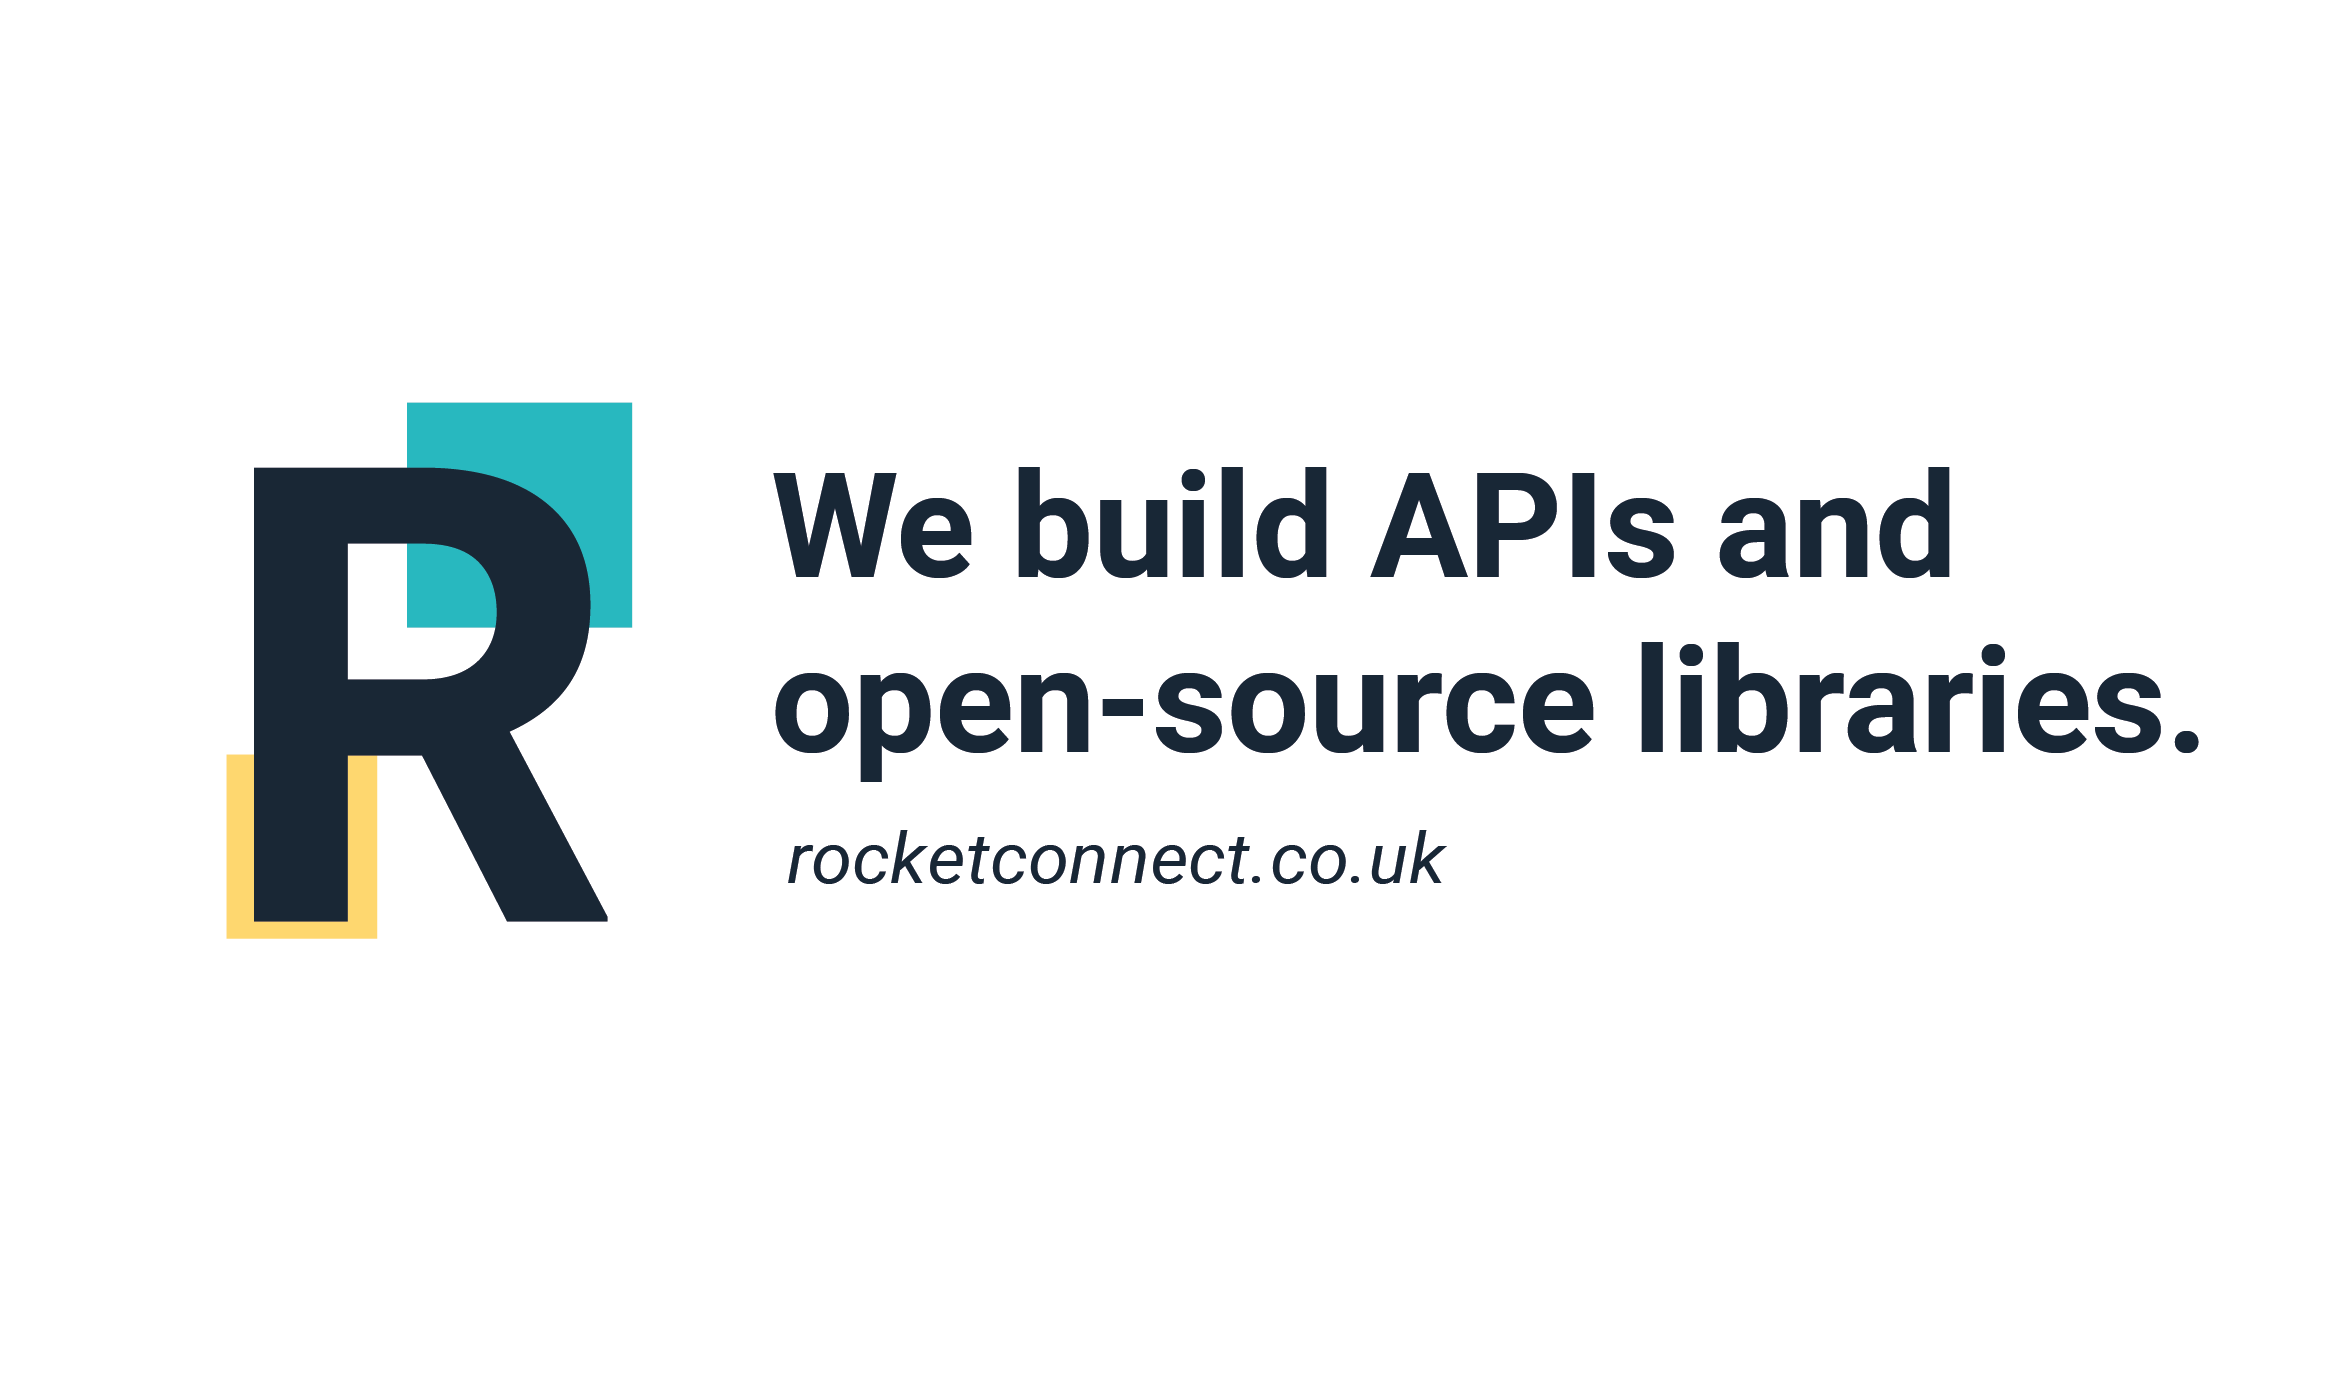
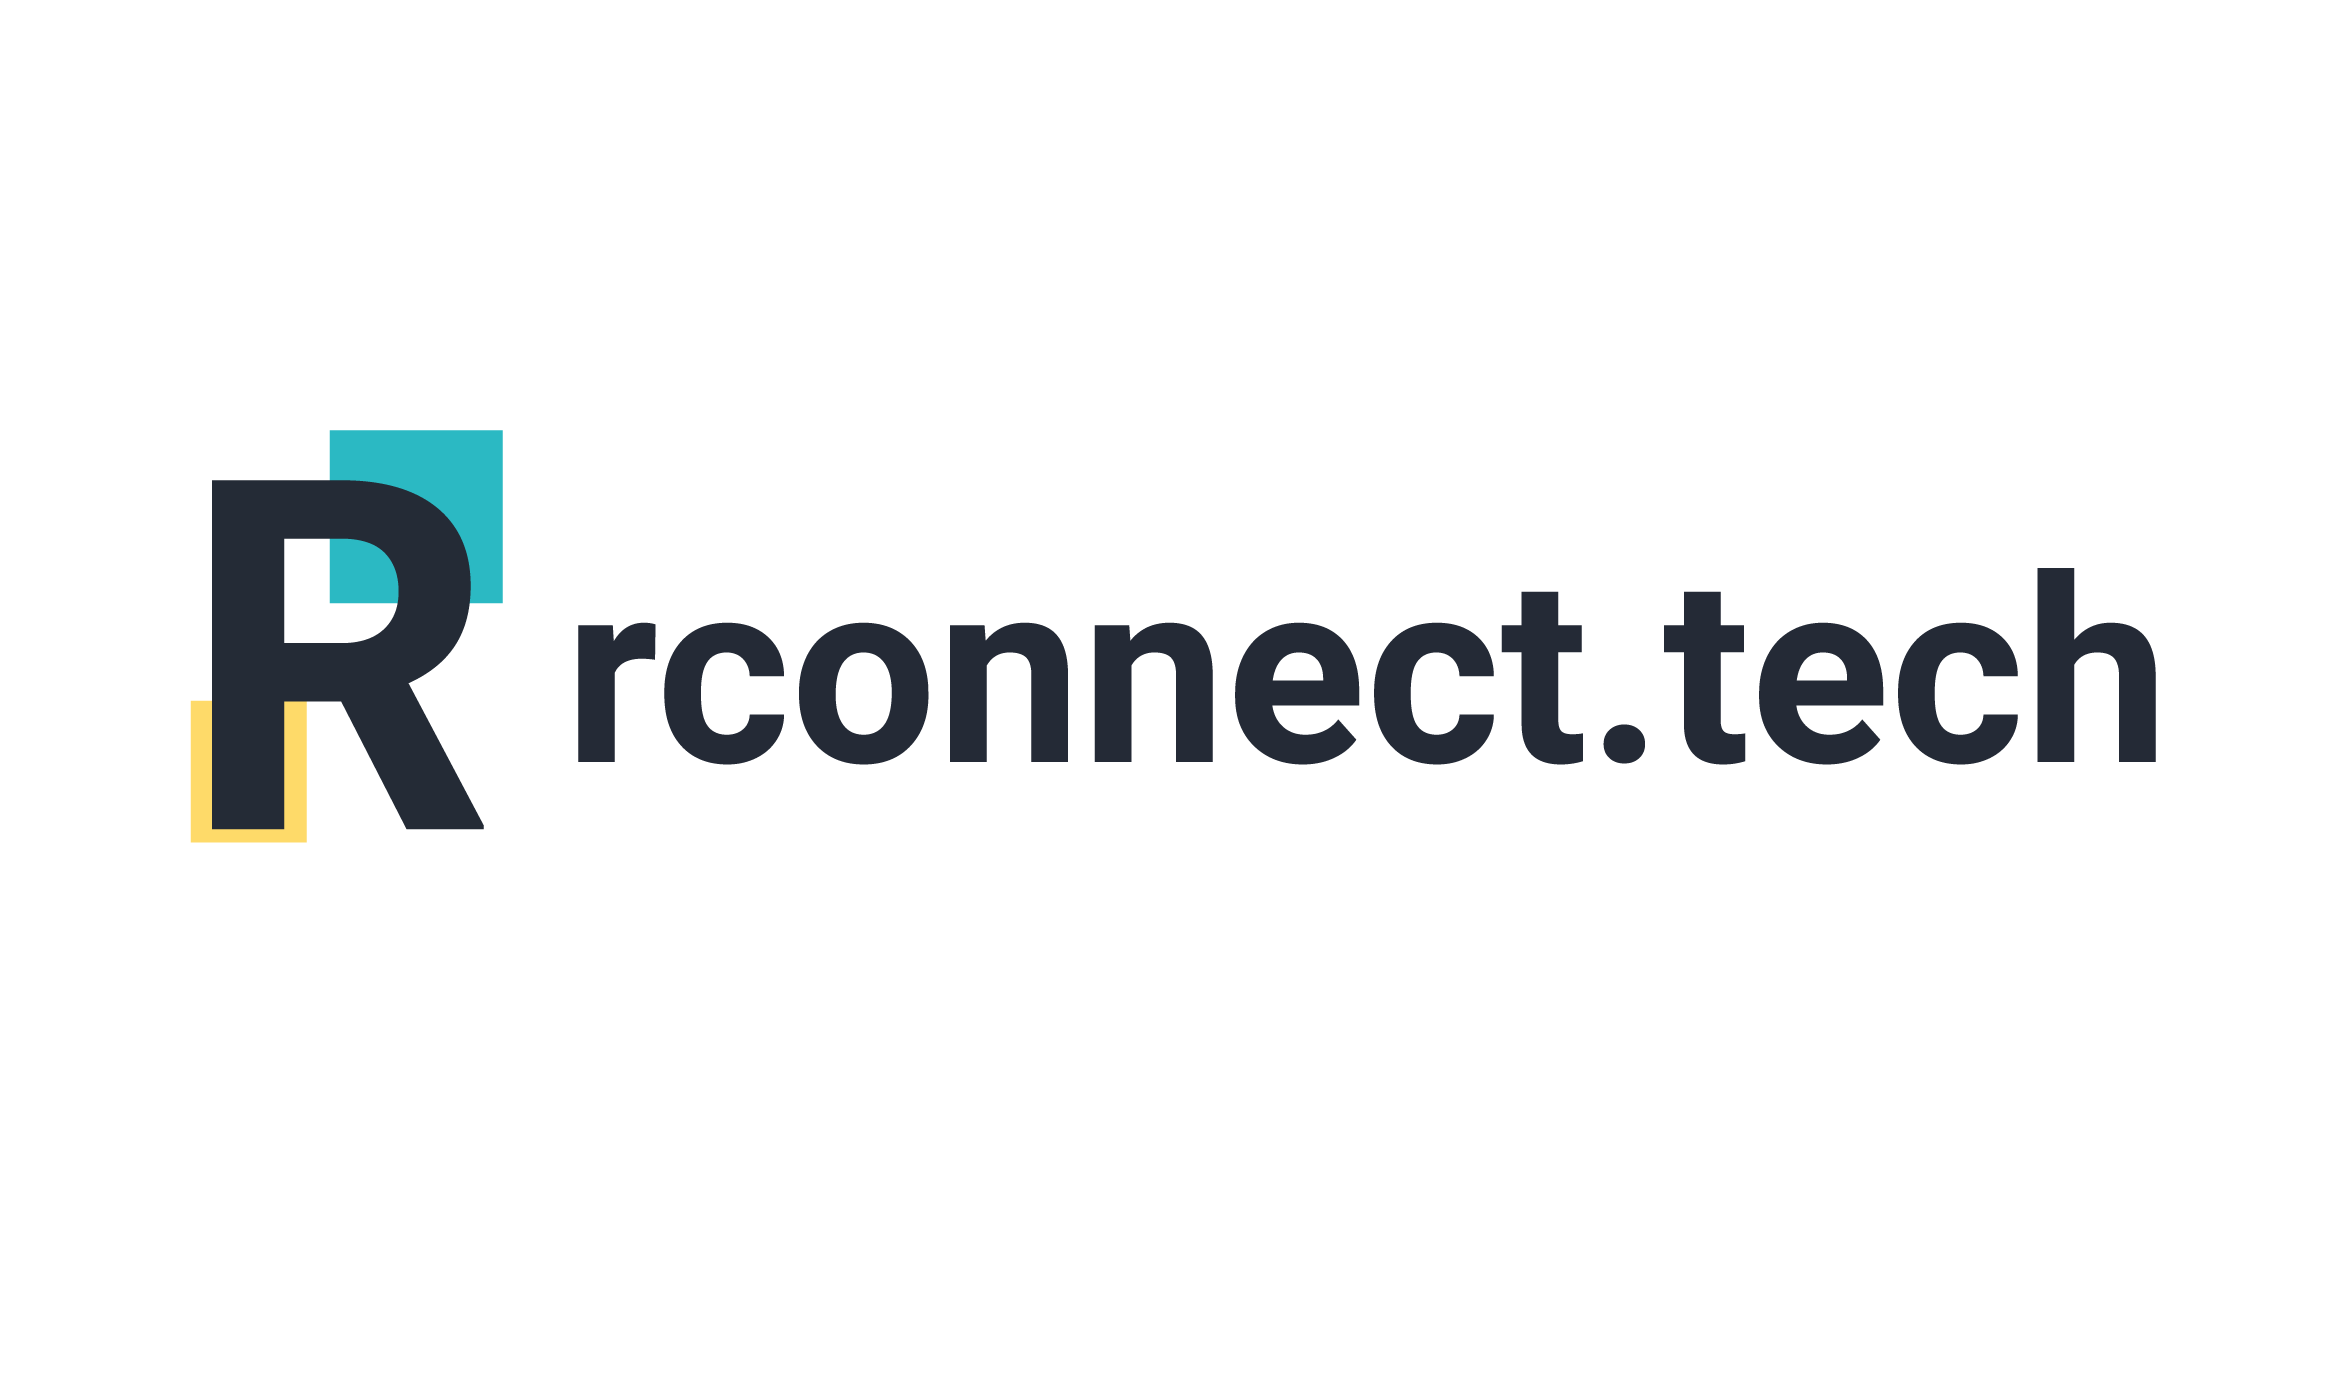
*

Changed region(s): [[0.0617, 0.2812, 0.9559, 0.6875], [0.3392, 0.5938, 0.6167, 0.6562]]

diff --git a/frontend/src/index.html b/frontend/src/index.html
@@ -17,10 +17,7 @@
     </script>
 
     <meta charset="UTF-8" />
-    <meta
-      name="description"
-      content="We build APIs and open source libraries."
-    />
+    <meta name="description" content="We connect people through open source." />
     <meta
       name="keywords"
       content="api,engineering, open-source, open source, developer, relations, contractors, developers, typescript, node.js, graphql, community, software, typescript, javascript"
@@ -30,28 +27,22 @@
     <meta name="viewport" content="width=device-width, initial-scale=1.0" />
 
     <meta name="twitter:card" content="summary_large_image" />
-    <meta name="twitter:site" content="https://rocketconnect.co.uk/" />
+    <meta name="twitter:site" content="https://rconnect.tech/" />
     <meta name="twitter:title" content="Rocket Connect" />
     <meta
       name="twitter:description"
-      content="We build APIs and open source libraries."
+      content="We connect people through open source."
     />
-    <meta
-      name="twitter:image"
-      content="https://rocketconnect.co.uk/banner.png"
-    />
+    <meta name="twitter:image" content="https://rconnect.tech/banner.png" />
 
     <meta property="og:type" content="article" />
     <meta property="og:title" content="Rocket Connect" />
     <meta
       property="og:description"
-      content="We build APIs and open source libraries."
+      content="We connect people through open source."
     />
-    <meta property="og:url" content="https://rocketconnect.co.uk/" />
-    <meta
-      property="og:image"
-      content="https://rocketconnect.co.uk/banner.png"
-    />
+    <meta property="og:url" content="https://rconnect.tech/" />
+    <meta property="og:image" content="https://rconnect.tech/banner.png" />
 
     <title>Rocket Connect</title>
 

diff --git a/frontend/src/components/views/Intro.tsx b/frontend/src/components/views/Intro.tsx
@@ -4,19 +4,10 @@ export function Intro() {
   return (
     <div className="overflow-hidden">
       <Container>
-        <div className="py-24 flex flex-col align-center justify-center w-5/5 md:w-4/5 lg:w-3/5 mx-auto">
+        <div className="pt-24 pb-48 flex flex-col align-center justify-center w-5/5 md:w-4/5 lg:w-3/5 mx-auto">
           <h1 className="text-center font-bold text-rocket-connect-darkblue text-4xl md:text-5xl xl:text-6xl">
-            We build APIs and open source libraries.
+            We connect people through open source.
           </h1>
-
-          <a href="#contact" className="mx-auto mt-20 hover:opacity-75">
-            <button
-              type="button"
-              className="bg-rocket-connect-darkblue text-white font-bold px-8 lg:px-12 py-2 lg:py-3"
-            >
-              Contact
-            </button>
-          </a>
         </div>
       </Container>
     </div>

diff --git a/frontend/src/components/views/Footer.tsx b/frontend/src/components/views/Footer.tsx
@@ -2,13 +2,7 @@ export function Footer() {
   return (
     <div className="bg-white w-full">
       <p className="text-center text-xs font-bold text-rocket-connect-darkblue p-3">
-        Rocket Connect Ltd is registered in the UK:{" "}
-        <a
-          className="text-rocket-connect-lightblue"
-          href="https://find-and-update.company-information.service.gov.uk/company/11868088"
-        >
-          11868088
-        </a>
+        rconnect.tech
       </p>
     </div>
   );

diff --git a/frontend/src/components/views/Header.tsx b/frontend/src/components/views/Header.tsx
@@ -13,7 +13,7 @@ export function Header() {
                 <Logo />
               </span>
               <span className="ml-5 hidden md:block self-center font-bold whitespace-nowrap text-rocket-connect-darkblue">
-                Rocket Connect
+                rconnect.tech
               </span>
             </a>
 

diff --git a/frontend/src/components/pages/Home.tsx b/frontend/src/components/pages/Home.tsx
@@ -10,7 +10,6 @@ export function Home() {
       <Intro />
       <Services />
       <TrustedBy />
-      <Contact />
       <Footer />
     </section>
   );
